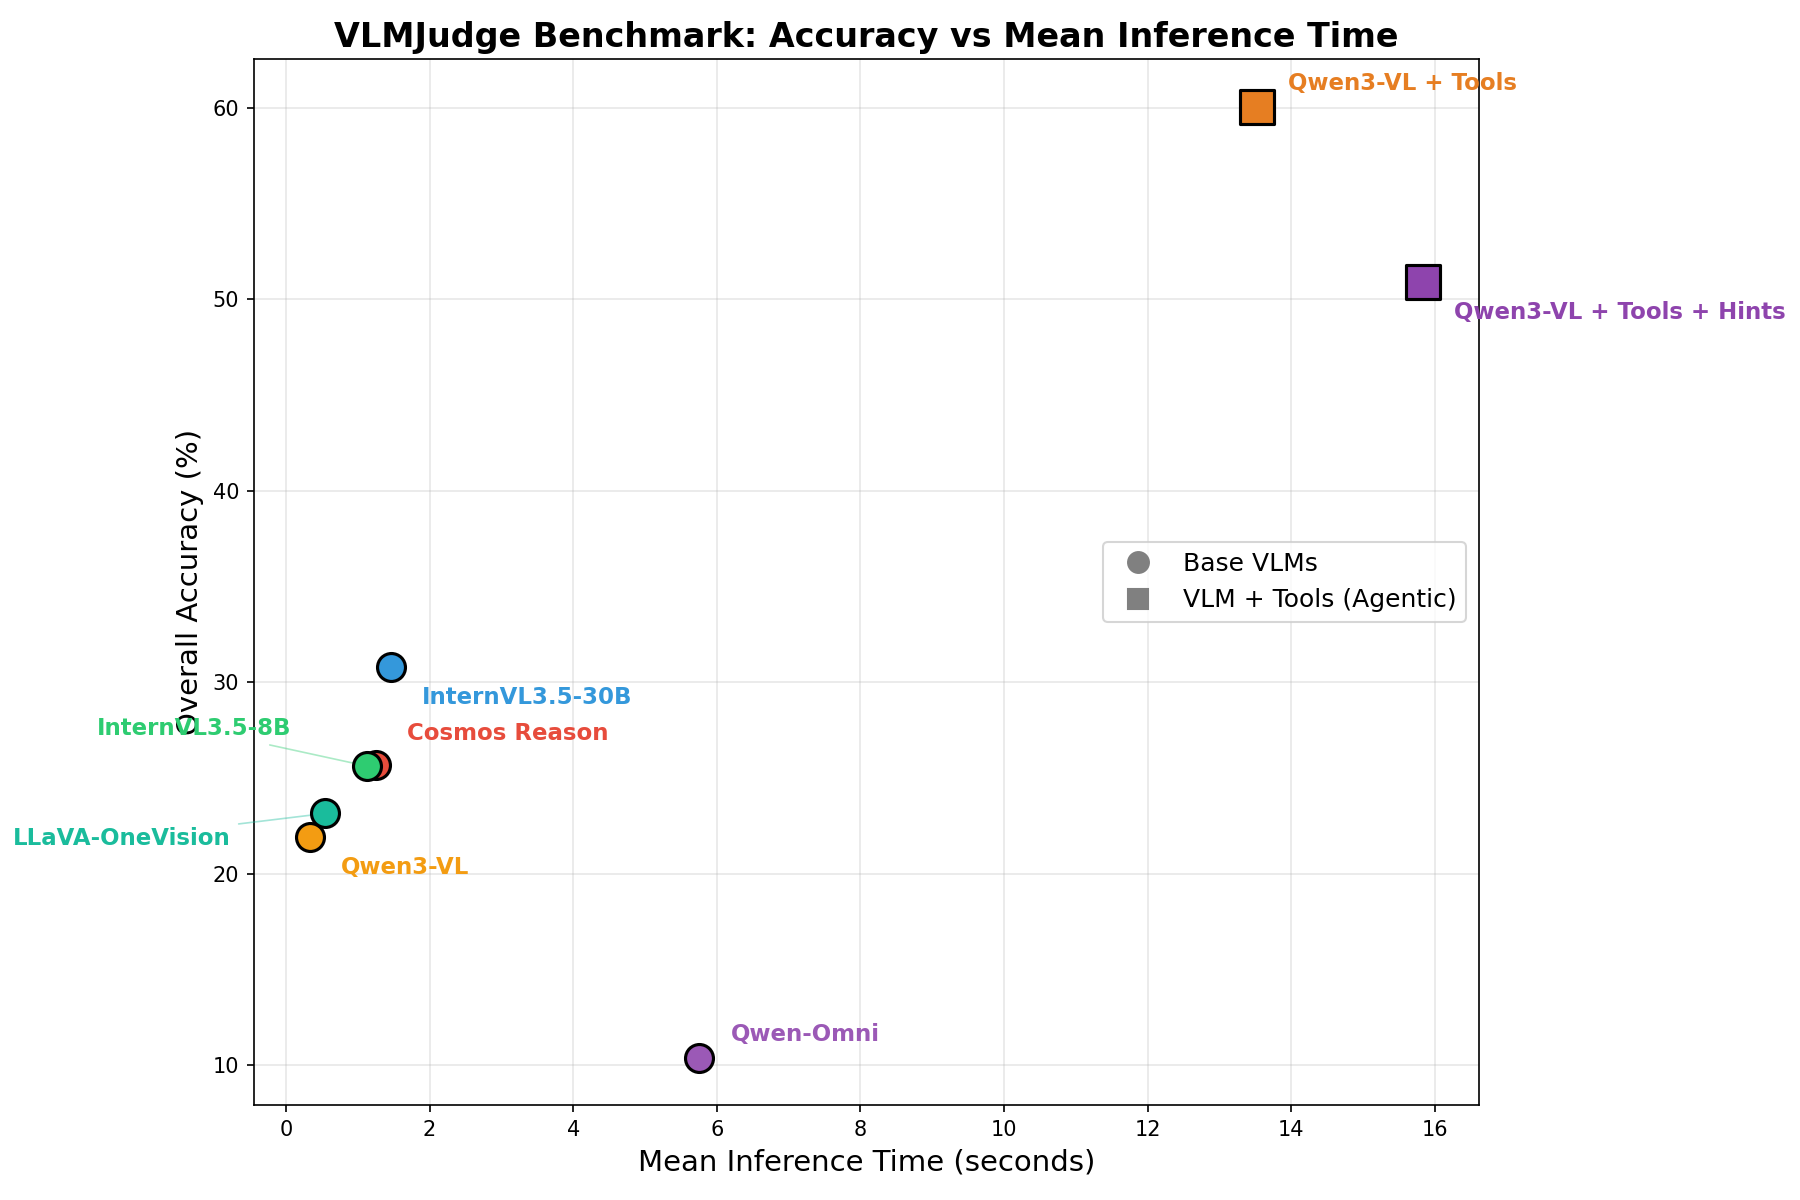
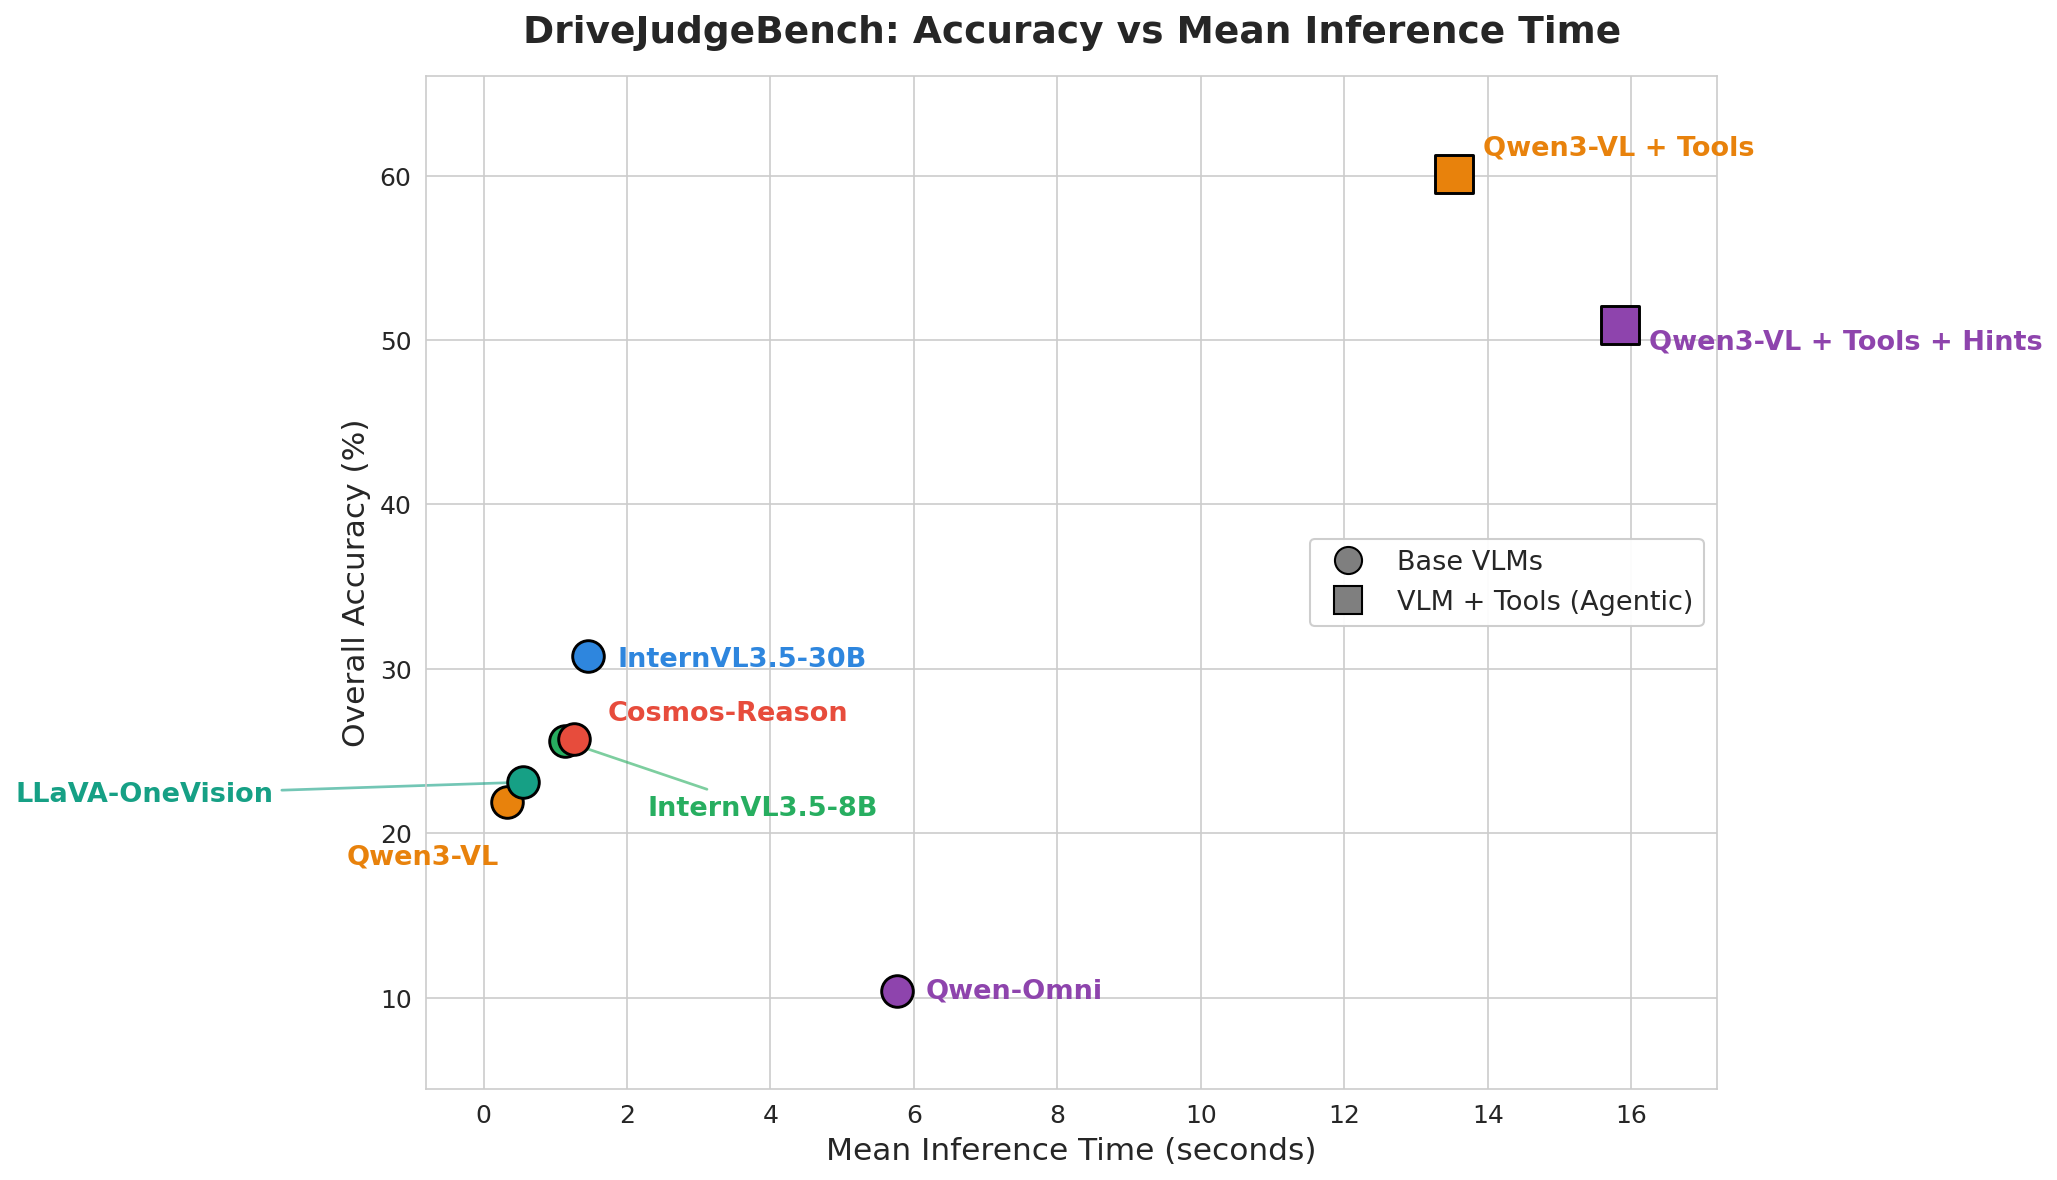
Release DriveJudgeBench harness
Replace repository contents with the current DriveJudgeBench codebase:
data preparation, open/closed-source evaluation, the agentic pipeline,
analysis, and the report.

diff --git a/report/make_v4_ablation_plots.py b/report/make_v4_ablation_plots.py
@@ -1,0 +1,105 @@
+#!/usr/bin/env python3
+"""Regenerate the DriveJudgeBench v4-routing ablation figures.
+
+Two bar charts comparing the agent baseline against the v4k (no routing fix)
+and v4m (strict routing) configurations, overall and per category. The numbers
+are baked in from the analyzed v4 ablation run so the figures can be rebuilt
+without the full results tree on hand.
+
+Outputs (overwritten):
+    report/figures/drivejudgebench_overall.png
+    report/figures/drivejudgebench_category.png
+"""
+from pathlib import Path
+
+import matplotlib.pyplot as plt
+import numpy as np
+import seaborn as sns
+
+FIG_DIR = Path(__file__).resolve().parent / "figures"
+
+# Bar colours: Baseline / v4k / v4m
+COLORS = ["#4C72B0", "#55A868", "#DD8452"]
+
+# Overall accuracy (%) per configuration.
+OVERALL = {"Baseline": 42.0, "v4k": 45.6, "v4m": 46.9}
+
+# Per-category accuracy (%): [Baseline, v4k, v4m].
+CATEGORIES = {
+    "Reality": [20, 47, 56],
+    "Safety": [61, 52, 49],
+    "Traffic\nLaws": [64, 46, 12],
+    "Visual": [94, 59, 71],
+    "Spatial-\nTemporal": [63, 46, 56],
+    "Artifacts": [24, 15, 18],
+}
+
+LEGEND = [
+    f"Baseline ({OVERALL['Baseline']:.1f}%)",
+    f"v4k — no routing fix ({OVERALL['v4k']:.1f}%)",
+    f"v4m — strict routing ({OVERALL['v4m']:.1f}%)",
+]
+
+
+def make_overall() -> None:
+    sns.set_style("whitegrid")
+    fig, ax = plt.subplots(figsize=(12, 7.5))
+
+    labels = list(OVERALL.keys())
+    values = list(OVERALL.values())
+    label_with_pct = [f"{lbl}\n({val:.1f}%)" for lbl, val in OVERALL.items()]
+
+    bars = ax.bar(labels, values, color=COLORS, width=0.6)
+    for bar, val in zip(bars, values):
+        ax.text(bar.get_x() + bar.get_width() / 2, val + 0.6, f"{val:.1f}%",
+                ha="center", va="bottom", fontsize=20, fontweight="bold")
+
+    ax.set_title("DriveJudgeBench — Overall Accuracy", fontsize=22, fontweight="bold", pad=18)
+    ax.set_ylabel("Accuracy (%)", fontsize=16)
+    ax.set_ylim(0, 60)
+    ax.set_xticks(range(len(labels)))
+    ax.set_xticklabels(label_with_pct, fontsize=14)
+    ax.tick_params(axis="y", labelsize=13)
+    sns.despine()
+
+    out = FIG_DIR / "drivejudgebench_overall.png"
+    fig.tight_layout()
+    fig.savefig(out, dpi=150, bbox_inches="tight")
+    plt.close(fig)
+    print(f"wrote {out}")
+
+
+def make_category() -> None:
+    sns.set_style("whitegrid")
+    fig, ax = plt.subplots(figsize=(16, 7.5))
+
+    cats = list(CATEGORIES.keys())
+    x = np.arange(len(cats))
+    width = 0.27
+
+    for i in range(3):
+        vals = [CATEGORIES[c][i] for c in cats]
+        bars = ax.bar(x + (i - 1) * width, vals, width, color=COLORS[i], label=LEGEND[i])
+        for bar, val in zip(bars, vals):
+            ax.text(bar.get_x() + bar.get_width() / 2, val + 1.0, f"{val}%",
+                    ha="center", va="bottom", fontsize=12, fontweight="bold")
+
+    ax.set_title("DriveJudgeBench — Per-Category Accuracy", fontsize=22, fontweight="bold", pad=18)
+    ax.set_ylabel("Accuracy (%)", fontsize=16)
+    ax.set_ylim(0, 105)
+    ax.set_xticks(x)
+    ax.set_xticklabels(cats, fontsize=14)
+    ax.tick_params(axis="y", labelsize=13)
+    ax.legend(fontsize=13, loc="upper right")
+    sns.despine()
+
+    out = FIG_DIR / "drivejudgebench_category.png"
+    fig.tight_layout()
+    fig.savefig(out, dpi=150, bbox_inches="tight")
+    plt.close(fig)
+    print(f"wrote {out}")
+
+
+if __name__ == "__main__":
+    make_overall()
+    make_category()

diff --git a/report/make_scatter_accuracy_time.py b/report/make_scatter_accuracy_time.py
@@ -1,0 +1,100 @@
+#!/usr/bin/env python3
+"""Regenerate the accuracy-vs-inference-time scatter for the README.
+
+Reads the committed `report/accuracy-vs-time.json` (per-model overall accuracy
+and mean inference time) and draws base VLMs as circles, agentic configs as
+squares. Output (overwritten):
+
+    report/figures/scatter_accuracy_time.png
+"""
+import json
+from pathlib import Path
+
+import matplotlib.pyplot as plt
+import seaborn as sns
+
+HERE = Path(__file__).resolve().parent
+DATA = HERE / "accuracy-vs-time.json"
+OUT = HERE / "figures" / "scatter_accuracy_time.png"
+
+# Internal agent stems -> the labels we want on the plot.
+DISPLAY = {
+    "Agent v4o": "Qwen3-VL + Tools",
+    "Agent v4p": "Qwen3-VL + Tools + Hints",
+}
+
+COLORS = {
+    "Qwen3-VL": "#E8820C",
+    "LLaVA-OneVision": "#16A085",
+    "InternVL3.5-8B": "#27AE60",
+    "Cosmos-Reason": "#E74C3C",
+    "InternVL3.5-30B": "#2E86DE",
+    "Qwen-Omni": "#8E44AD",
+    "Qwen3-VL + Tools": "#E8820C",
+    "Qwen3-VL + Tools + Hints": "#8E44AD",
+}
+
+# label offset (points): dx, dy, ha, va, leader-line?
+LABELS = {
+    "Qwen3-VL + Tools": (14, 6, "left", "bottom", False),
+    "Qwen3-VL + Tools + Hints": (14, -2, "left", "top", False),
+    "InternVL3.5-30B": (14, -2, "left", "center", False),
+    "Cosmos-Reason": (16, 6, "left", "bottom", False),
+    "InternVL3.5-8B": (40, -26, "left", "top", True),
+    "LLaVA-OneVision": (-120, -6, "right", "center", True),
+    "Qwen3-VL": (-4, -20, "right", "top", False),
+    "Qwen-Omni": (14, 0, "left", "center", False),
+}
+
+
+def main() -> None:
+    points = json.loads(DATA.read_text())["points"]
+
+    sns.set_style("whitegrid")
+    fig, ax = plt.subplots(figsize=(13.5, 8))
+
+    for p in points:
+        name = DISPLAY.get(p["name"], p["name"])
+        color = COLORS.get(name, "#555555")
+        is_agent = p["category"] == "agent"
+        ax.scatter(
+            p["time"], p["accuracy"],
+            s=320 if is_agent else 230,
+            marker="s" if is_agent else "o",
+            facecolor=color, edgecolor="black", linewidth=1.4, zorder=3,
+        )
+
+        dx, dy, ha, va, leader = LABELS.get(name, (12, 4, "left", "center", False))
+        arrow = dict(arrowstyle="-", color=color, lw=1.3, alpha=0.6) if leader else None
+        ax.annotate(
+            name, (p["time"], p["accuracy"]),
+            textcoords="offset points", xytext=(dx, dy),
+            ha=ha, va=va, fontsize=13, fontweight="bold", color=color,
+            arrowprops=arrow, zorder=2 if leader else 4,
+        )
+
+    # Legend: marker shape encodes base vs agentic (shape only, neutral colour).
+    handles = [
+        plt.Line2D([0], [0], marker="o", color="w", markerfacecolor="#7f7f7f",
+                   markeredgecolor="black", markersize=13, label="Base VLMs"),
+        plt.Line2D([0], [0], marker="s", color="w", markerfacecolor="#7f7f7f",
+                   markeredgecolor="black", markersize=13, label="VLM + Tools (Agentic)"),
+    ]
+    ax.legend(handles=handles, fontsize=13, loc="center right", framealpha=0.95)
+
+    ax.set_title("DriveJudgeBench: Accuracy vs Mean Inference Time",
+                 fontsize=18, fontweight="bold", pad=16)
+    ax.set_xlabel("Mean Inference Time (seconds)", fontsize=15)
+    ax.set_ylabel("Overall Accuracy (%)", fontsize=15)
+    ax.tick_params(labelsize=12)
+    ax.set_xlim(-0.8, 17.2)
+    ax.margins(y=0.12)
+
+    fig.tight_layout()
+    fig.savefig(OUT, dpi=150, bbox_inches="tight")
+    plt.close(fig)
+    print(f"wrote {OUT}")
+
+
+if __name__ == "__main__":
+    main()

diff --git a/src/agentic/main_multi_tools_v4.py b/src/agentic/main_multi_tools_v4.py
@@ -1,5 +1,5 @@
 """
-VLMJudge Multi-Tool Agent v4 (ThreadPool)
+DriveJudgeBench Multi-Tool Agent v4 (ThreadPool)
 Tools: RAFT (optical flow), SAM (max 4 objects), FFT (anisotropy)
 Timing: per-question wall-clock time logged in results
 
@@ -355,7 +355,7 @@ def process_single_item(item: Dict[str, Any], llm_cfg: Dict) -> Dict[str, Any]:
         llm=llm_cfg,
         system_message=SYSTEM_PROMPT,
         function_list=['get_motion_info', 'get_masks', 'get_frequency_analysis', 'final_answer'],
-        name='VLMJudge v4'
+        name='DriveJudgeBench v4'
     )
     content = item["content"]
     video_item = next(c for c in content if c["type"] == "video")
@@ -436,7 +436,7 @@ def process_single_item(item: Dict[str, Any], llm_cfg: Dict) -> Dict[str, Any]:
 ##### Main
 ###############################
 def main():
-    parser = argparse.ArgumentParser(description="VLMJudge v4 — Threaded RAFT+SAM+FFT")
+    parser = argparse.ArgumentParser(description="DriveJudgeBench v4 — Threaded RAFT+SAM+FFT")
     parser.add_argument("--storage_path", type=str, default=STORAGE_PATH)
     parser.add_argument("--questions_file", type=str, default="dataset/Questions_raw.json")
     parser.add_argument("--output_file_path", type=str, default=None)
@@ -531,7 +531,7 @@ def main():
         futures = {executor.submit(process_single_item, item, llm_cfg): item
                    for item in questions}
 
-        pbar = tqdm(total=len(futures), desc="VLMJudge v4")
+        pbar = tqdm(total=len(futures), desc="DriveJudgeBench v4")
         for future in as_completed(futures):
             result = future.result()
             completed += 1

diff --git a/src/real_vs_generated/scripts/main_multi_tools_v4.py b/src/real_vs_generated/scripts/main_multi_tools_v4.py
@@ -1,5 +1,5 @@
 """
-VLMJudge Multi-Tool Agent v4 (ThreadPool)
+DriveJudgeBench Multi-Tool Agent v4 (ThreadPool)
 Tools: RAFT (optical flow), SAM (max 4 objects), FFT (anisotropy)
 Timing: per-question wall-clock time logged in results
 
@@ -362,7 +362,7 @@ def process_single_item(item: Dict[str, Any], llm_cfg: Dict) -> Dict[str, Any]:
         llm=llm_cfg,
         system_message=SYSTEM_PROMPT,
         function_list=['get_motion_info', 'get_masks', 'get_frequency_analysis', 'final_answer'],
-        name='VLMJudge v4'
+        name='DriveJudgeBench v4'
     )
     content = item["content"]
     video_item = next(c for c in content if c["type"] == "video")
@@ -442,7 +442,7 @@ def process_single_item(item: Dict[str, Any], llm_cfg: Dict) -> Dict[str, Any]:
 ##### Main
 ###############################
 def main():
-    parser = argparse.ArgumentParser(description="VLMJudge v4 — Threaded RAFT+SAM+FFT")
+    parser = argparse.ArgumentParser(description="DriveJudgeBench v4 — Threaded RAFT+SAM+FFT")
     parser.add_argument("--storage_path", type=str, default=STORAGE_PATH)
     parser.add_argument("--questions_file", type=str, default="dataset/Questions_raw.json")
     parser.add_argument("--output_file_path", type=str, default=None)
@@ -539,7 +539,7 @@ def main():
         futures = {executor.submit(process_single_item, item, llm_cfg): item
                    for item in questions}
 
-        pbar = tqdm(total=len(futures), desc="VLMJudge v4")
+        pbar = tqdm(total=len(futures), desc="DriveJudgeBench v4")
         for future in as_completed(futures):
             result = future.result()
             completed += 1

diff --git a/report/report.tex b/report/report.tex
@@ -16,7 +16,7 @@
 \usepackage{enumitem}
 \setlist{nosep,leftmargin=*}
 
-\title{Vision--Language Models on the VLM-eval-rcp\\driving-video benchmark:\\
+\title{Vision--Language Models on the DriveJudgeBench\\driving-video benchmark:\\
 a ten-model audit of failure modes\\and the agentic gap}
 \author{Matthieu Scharffe}
 \date{May 2026}
@@ -30,7 +30,7 @@ a ten-model audit of failure modes\\and the agentic gap}
 \begin{abstract}
 We extend two prior single-model audits (GPT-5.4-mini, Gemini~3~Flash) into
 a uniform cross-model failure analysis of \textbf{ten} vision--language
-configurations on the VLM-eval-rcp driving-video benchmark
+configurations on the DriveJudgeBench driving-video benchmark
 (\num{7371} (video, question) pairs, six categories, five JPEG frames at
 1\,fps per clip). Eight new systems are added: six open-source baselines
 (Cosmos-Reason, InternVL3.5-8B/30B, LLaVA-OneVision, Qwen3-VL,

diff --git a/src/evaluation/closed_source/gpt/analysis/report.tex b/src/evaluation/closed_source/gpt/analysis/report.tex
@@ -17,7 +17,7 @@
 \usepackage{enumitem}
 \setlist{nosep,leftmargin=*}
 
-\title{GPT-5.4-mini on the VLM-eval-rcp driving-video benchmark:\\
+\title{GPT-5.4-mini on the DriveJudgeBench driving-video benchmark:\\
 accuracy breakdown and per-category failure analysis}
 \author{Matthieu Scharffe}
 \date{April 2026}

diff --git a/src/evaluation/closed_source/gpt/retry_failed.py b/src/evaluation/closed_source/gpt/retry_failed.py
@@ -263,7 +263,7 @@ def cmd_submit(args) -> None:
             input_file_id=up.id,
             endpoint="/v1/chat/completions",
             completion_window="24h",
-            metadata={"project": "VLM-eval-rcp", "model": model,
+            metadata={"project": "DriveJudgeBench", "model": model,
                       "detail": image_detail, "part": jsonl_path.name, "retry": "1"},
         )
         print(f"    batch_id={batch.id}  status={batch.status}")

diff --git a/src/evaluation/closed_source/gpt/run_gpt.py b/src/evaluation/closed_source/gpt/run_gpt.py
@@ -272,7 +272,7 @@ def run_batch_submit(
             input_file_id=up.id,
             endpoint="/v1/chat/completions",
             completion_window="24h",
-            metadata={"project": "VLM-eval-rcp", "model": model,
+            metadata={"project": "DriveJudgeBench", "model": model,
                       "detail": image_detail, "part": p.name},
         )
         batches.append({

diff --git a/README.md b/README.md
@@ -54,7 +54,7 @@ and **Gemini-3-Flash**. See [`analysis_notebooks/`](analysis_notebooks/) for the
 ## 🧭 What's inside
 
 ```
-VLM-eval-rcp/
+DriveJudgeBench/
 ├── 📂 src/                              the pipeline code
 │   ├── data_preparation/                raw parquet + MP4s → chat-formatted (video, question) JSONs
 │   ├── evaluation/
@@ -176,6 +176,19 @@ Cleaned per-model outputs live in `results/*.parquet` (one analyzed parquet per 
 `GPT-5.4-mini_analyzed.parquet` and `Gemini_analyzed.parquet`); the LaTeX write-up, figures and
 failure dumps live in [`report/`](report/). Run the notebooks **from `analysis_notebooks/`** so
 their relative paths (`../dataset/…`, `../report/figures/…`) resolve.
+
+---
+
+## 🗂️ Data, secrets & git hygiene
+
+- **Datasets & model weights** live on a cluster filesystem (the path is hardcoded in the eval
+  scripts). Locally they sit in `dataset/` — **gitignored**, never committed.
+- **Heavy closed-source artifacts** (base64 request batches, raw results, frame caches) and bulky
+  regenerable analysis blobs are gitignored too; only the *code* and small summaries are tracked.
+- **Secrets** — `secrets.env`, `robot_secret.json`, and every `.env` are gitignored. Use the
+  `example.env` templates.
+
+---
 
 <div align="center">
 

diff --git a/src/evaluation/closed_source/gemini/analysis/reports/gemini_analysis_report.md b/src/evaluation/closed_source/gemini/analysis/reports/gemini_analysis_report.md
@@ -1,7 +1,7 @@
 # Why does bare Gemini 3 Flash beat the harness?
 
 A synthesis of six per-category investigations into Gemini 3 Flash Preview's
-behaviour on the VLM-eval-rcp benchmark (n = 7 282 (video, question) pairs,
+behaviour on the DriveJudgeBench benchmark (n = 7 282 (video, question) pairs,
 5 JPEG frames @ 1 fps per clip, no audio, no full video). Per-category
 deep-dives are in `./reports/<category>.md`.
 